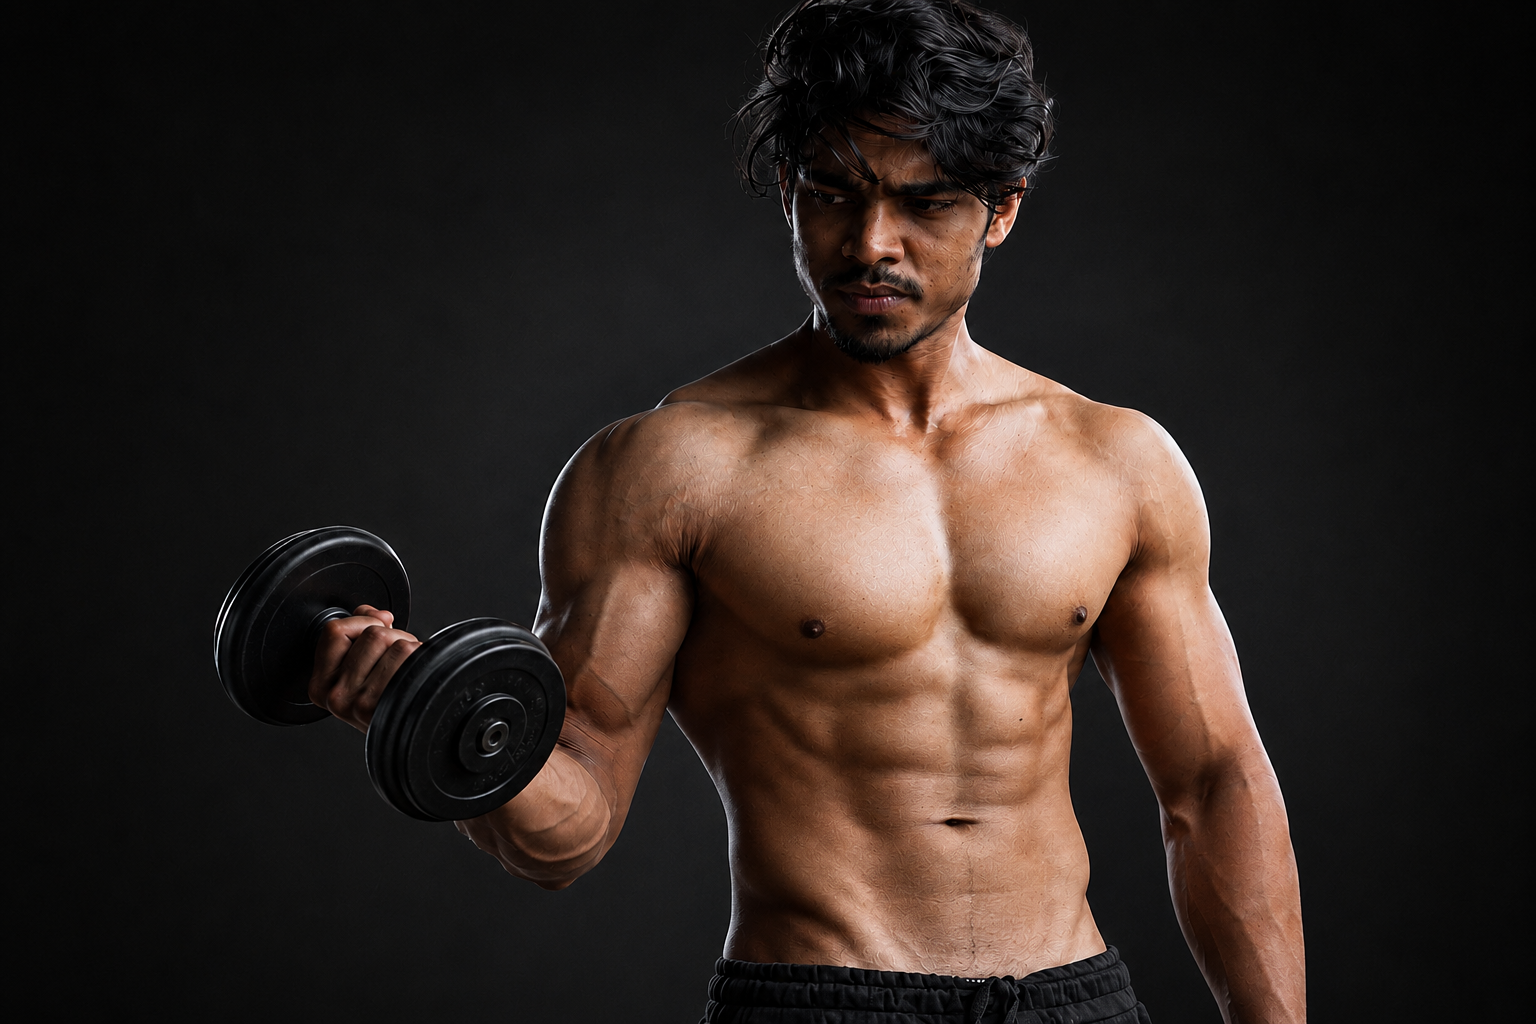
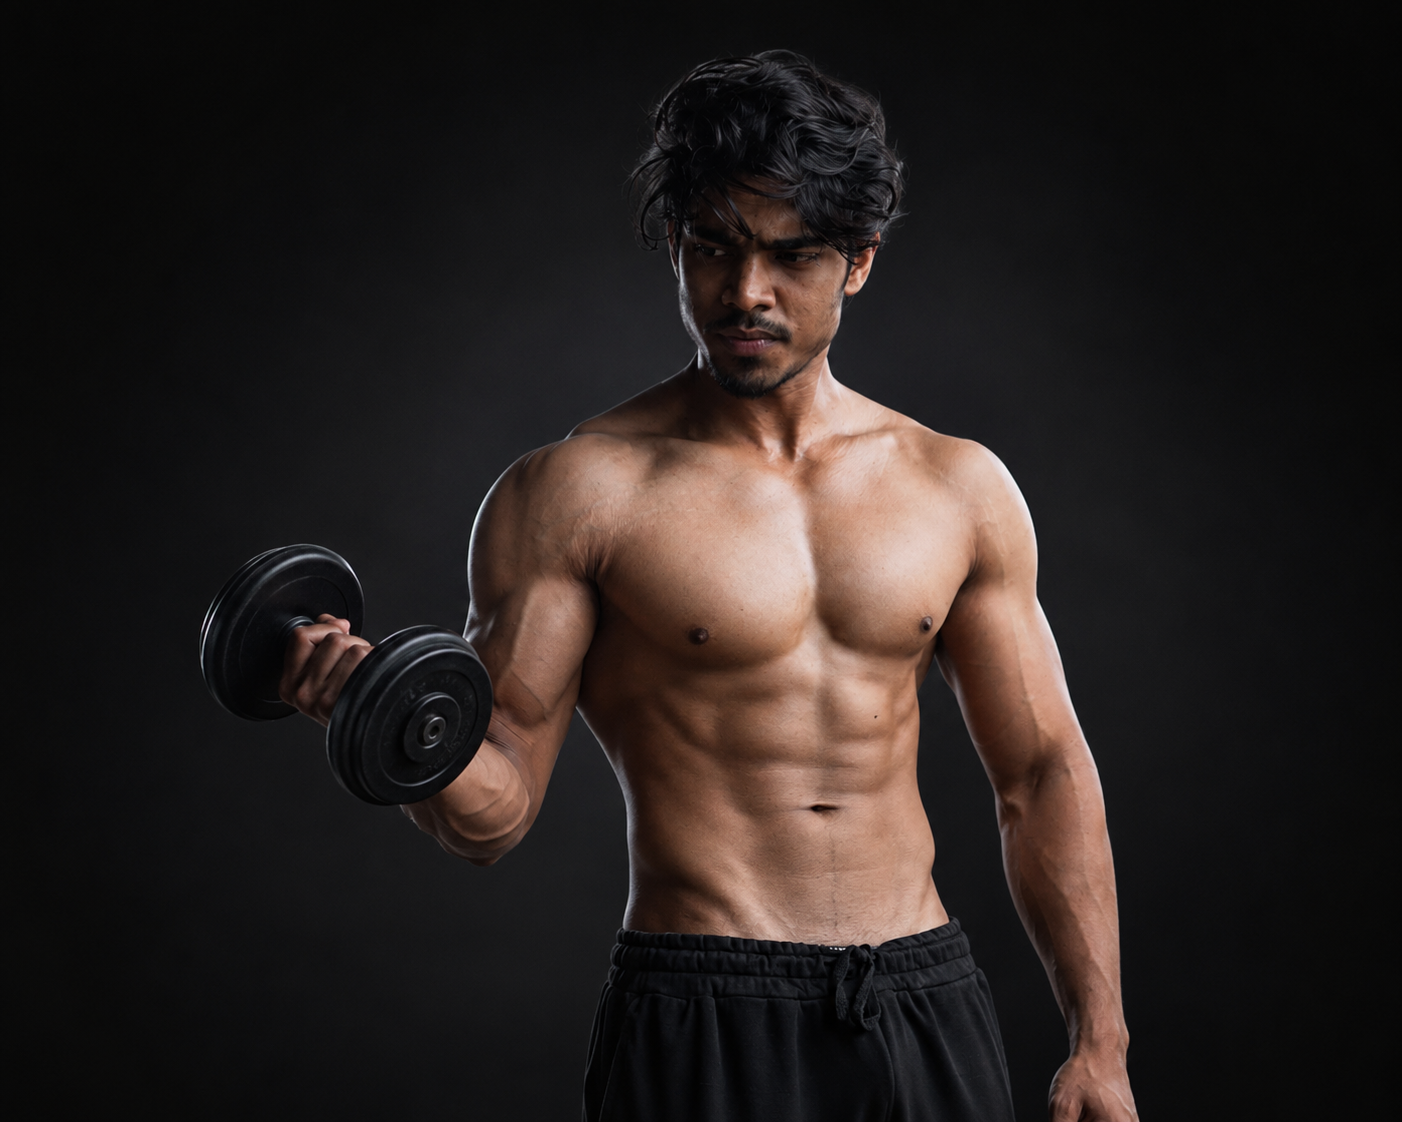
PDF Image Fix again and again

Changed region(s): [[0.1534, 0.0, 0.8588, 1.0], [0.1227, 0.5625, 0.1534, 0.625]]

diff --git a/frontend/src/pages/Diet.js b/frontend/src/pages/Diet.js
@@ -265,7 +265,7 @@ function generatePDF(meals, userInfo, targets, goalLabel, bodyImage) {
     "PNG",
     105,  // X position
     35,   // Y position
-    80,   // width
+    85,   // width
     70    // height
   );
 
